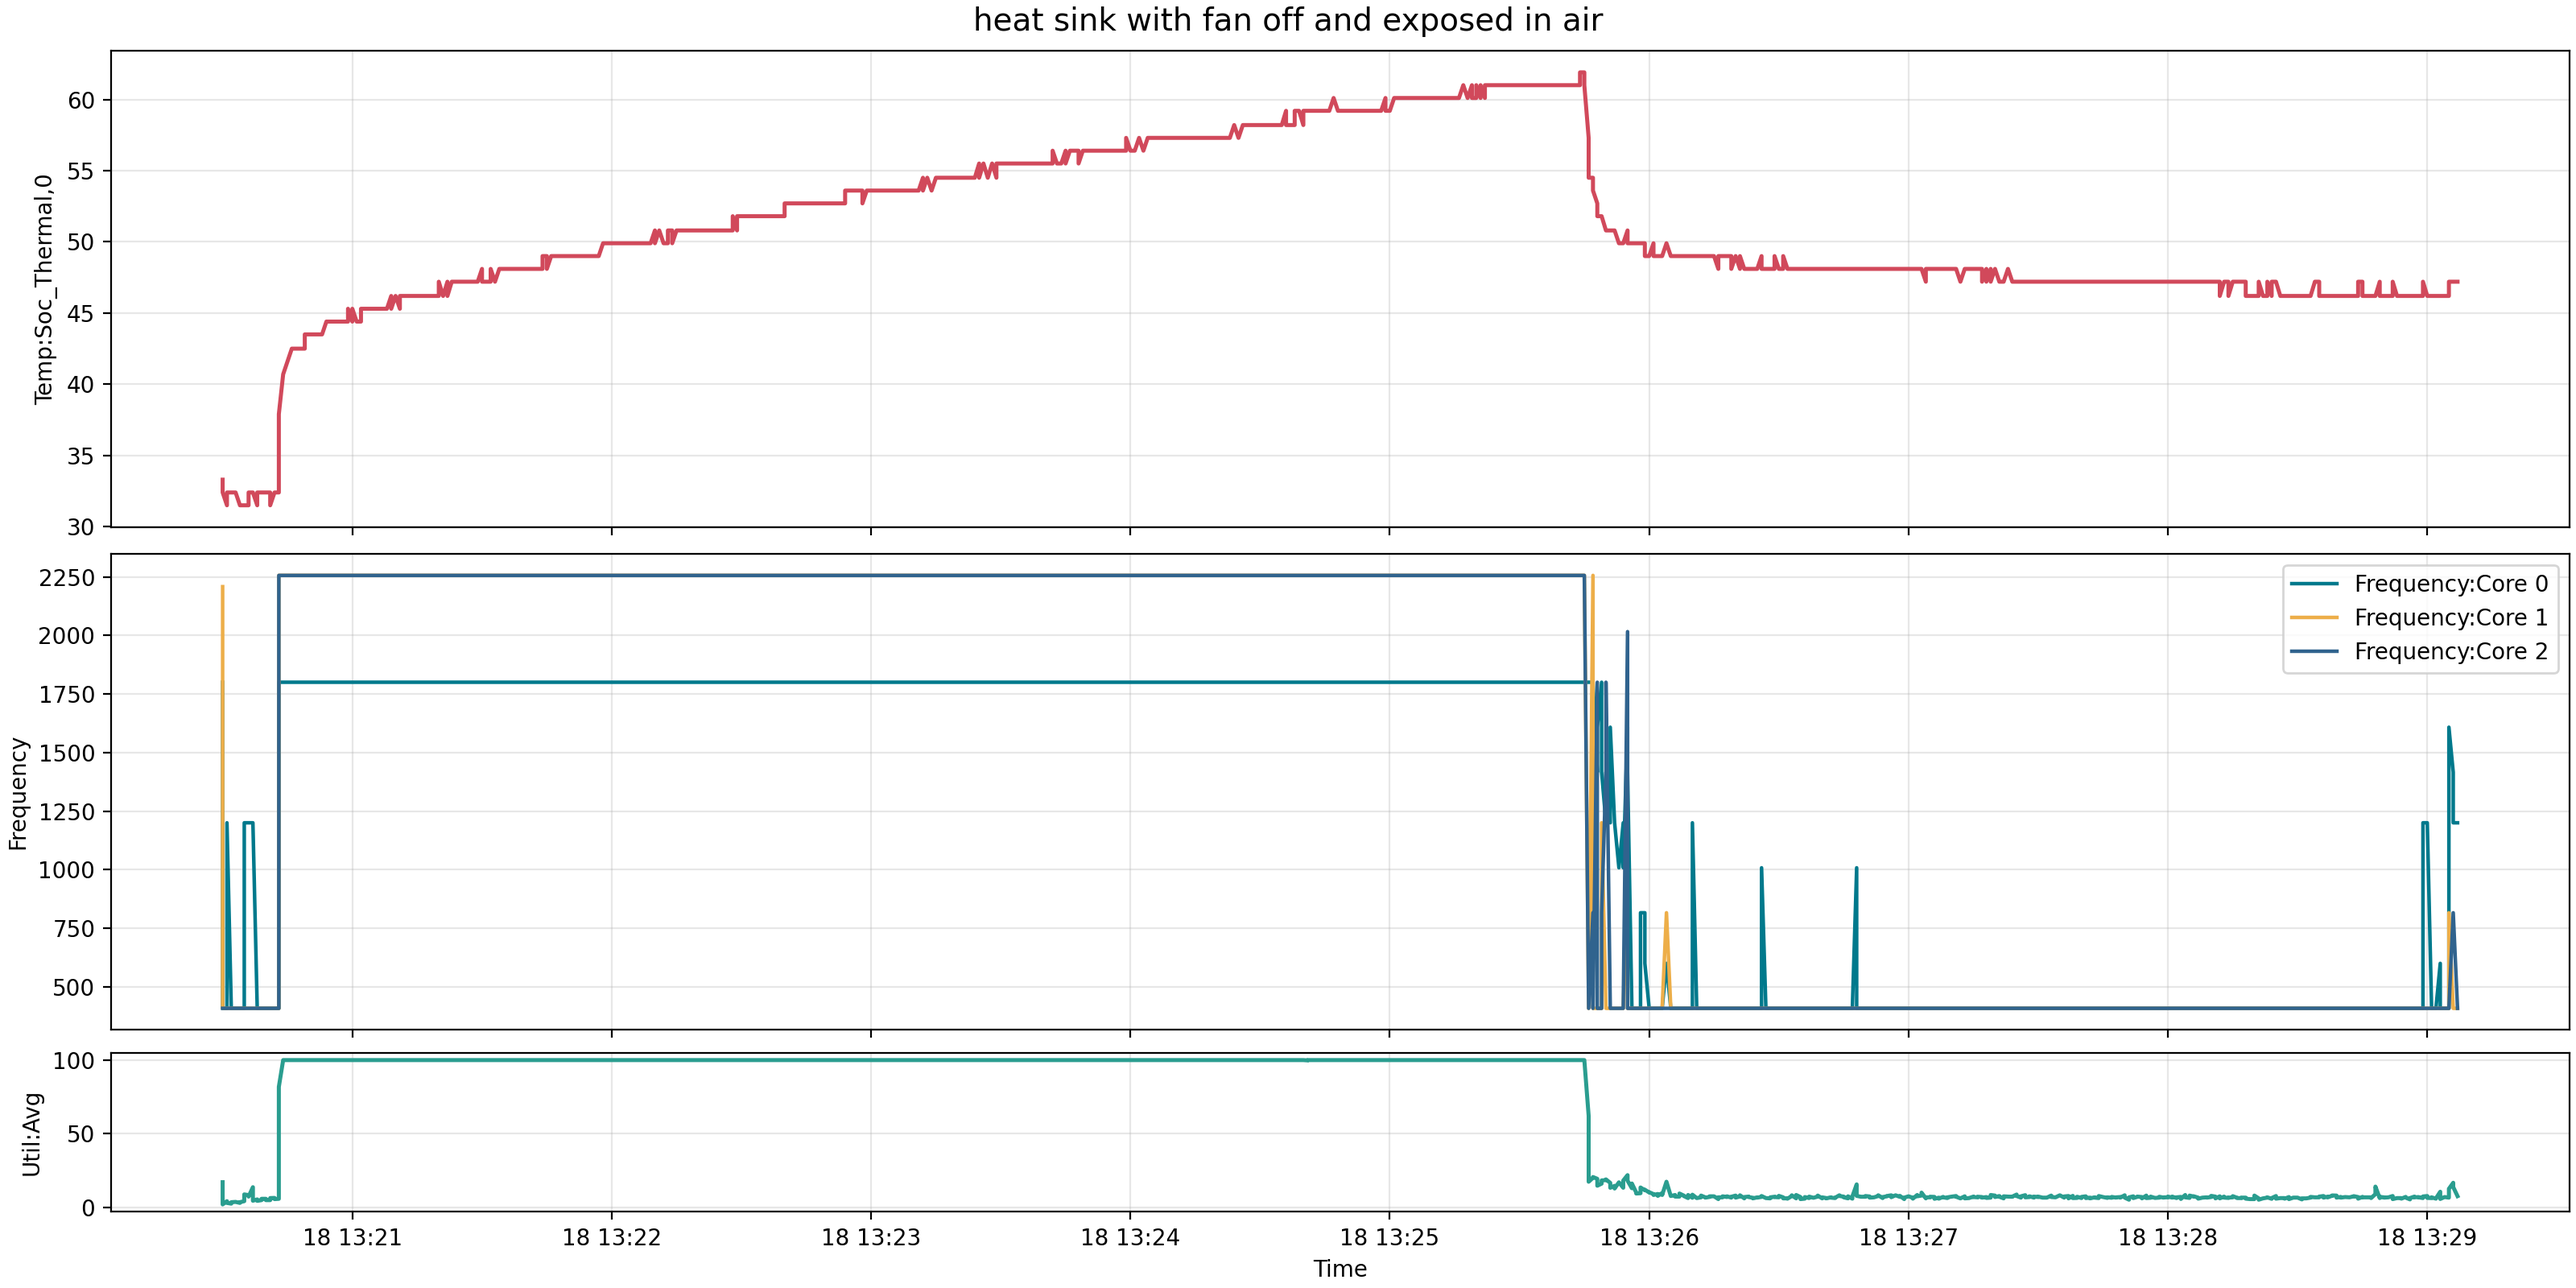
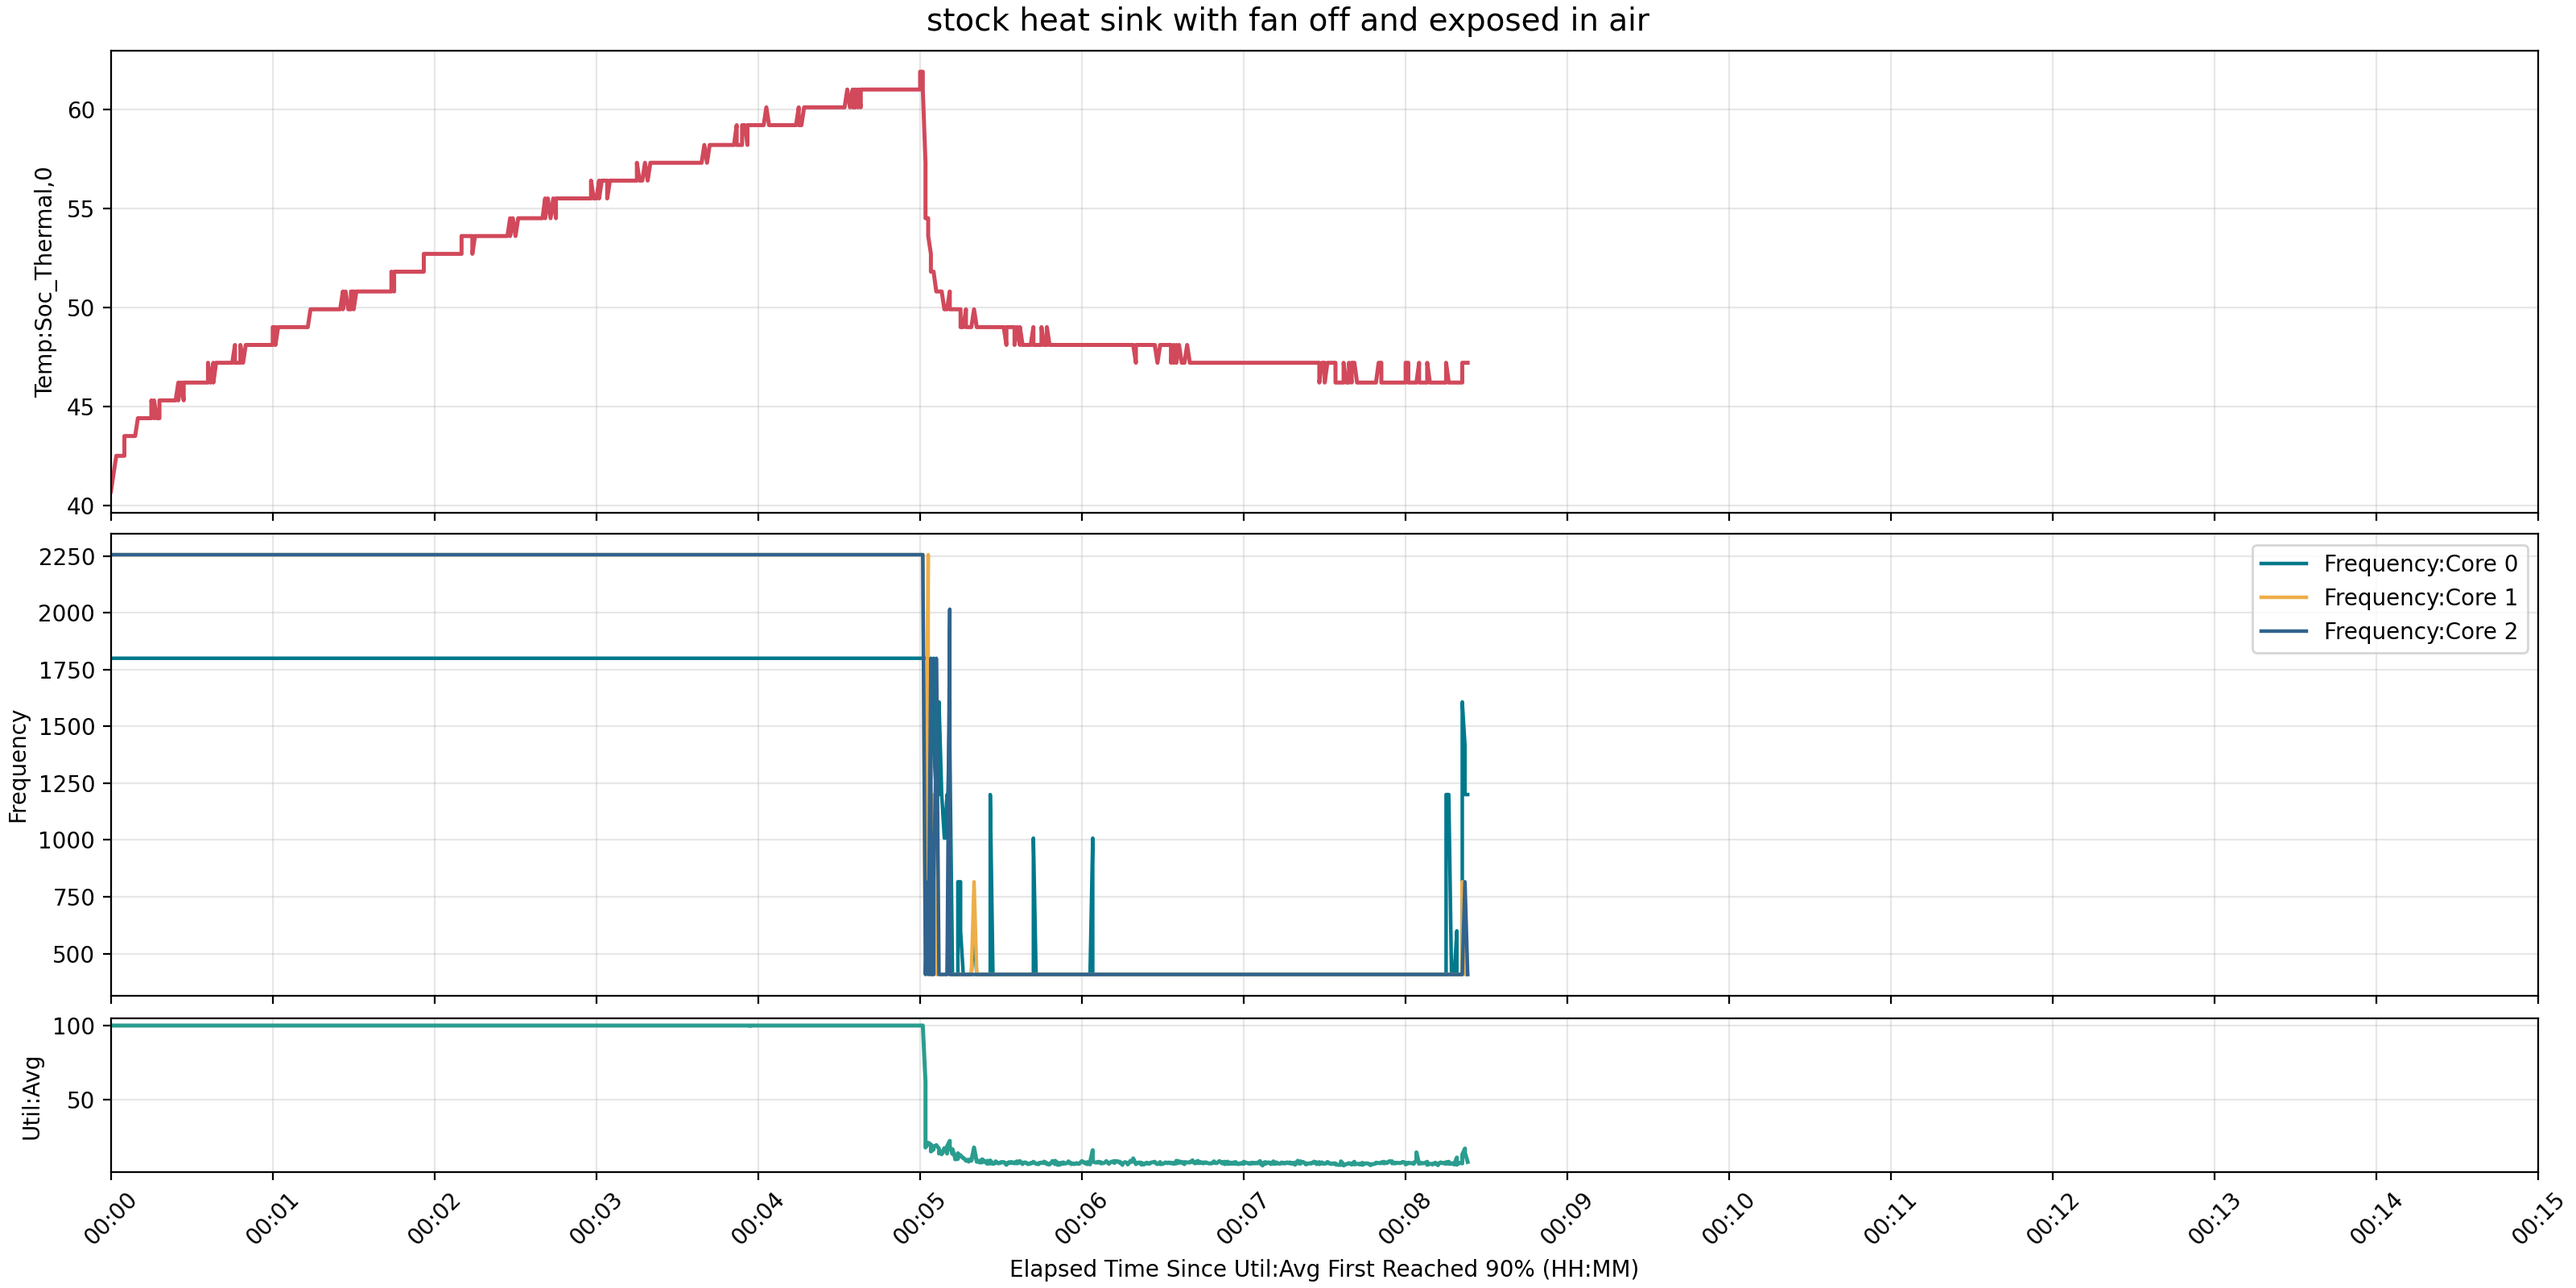
更新测试数据

diff --git a/plot_csv_charts.py b/plot_csv_charts.py
@@ -1,5 +1,6 @@
 from __future__ import annotations
 
+import math
 import os
 from pathlib import Path
 
@@ -13,6 +14,7 @@ import matplotlib
 matplotlib.use("Agg")
 
 import matplotlib.pyplot as plt
+from matplotlib.ticker import FuncFormatter, MultipleLocator
 import pandas as pd
 
 
@@ -23,6 +25,8 @@ UTIL_COLUMN = "Util:Avg"
 PLOT_COLUMNS = [TEMP_COLUMN, *FREQ_COLUMNS, UTIL_COLUMN]
 DESCRIPTION_CSV = "DISCRIPTION.csv"
 SUBPLOT_HEIGHT_RATIOS = [1, 1, 1 / 3]
+SECONDS_PER_MINUTE = 60
+UTIL_START_THRESHOLD = 90.0
 
 
 def load_descriptions(description_csv: Path) -> dict[str, str]:
@@ -64,9 +68,43 @@ def load_csv(csv_path: Path) -> pd.DataFrame:
     return df
 
 
-def plot_csv(csv_path: Path, output_dir: Path, descriptions: dict[str, str]) -> Path:
-    df = load_csv(csv_path)
+def get_plot_start_time(df: pd.DataFrame) -> pd.Timestamp:
+    start_rows = df[df[UTIL_COLUMN] >= UTIL_START_THRESHOLD]
+    if start_rows.empty:
+        return df[TIME_COLUMN].iloc[0]
+    return start_rows[TIME_COLUMN].iloc[0]
+
+
+def trim_df_for_plot(df: pd.DataFrame) -> pd.DataFrame:
+    start_time = get_plot_start_time(df)
+    return df[df[TIME_COLUMN] >= start_time].copy()
+
+
+def get_elapsed_seconds(df: pd.DataFrame) -> pd.Series:
+    return (df[TIME_COLUMN] - df[TIME_COLUMN].iloc[0]).dt.total_seconds()
+
+
+def get_axis_duration_seconds(dataframes: list[pd.DataFrame]) -> float:
+    max_duration_seconds = max(get_elapsed_seconds(df).iloc[-1] for df in dataframes)
+    rounded_minutes = math.ceil(max_duration_seconds / SECONDS_PER_MINUTE)
+    return max(SECONDS_PER_MINUTE, rounded_minutes * SECONDS_PER_MINUTE)
+
+
+def format_elapsed_time(value: float, _: float) -> str:
+    total_minutes = max(0, int(round(value / SECONDS_PER_MINUTE)))
+    hours, minutes = divmod(total_minutes, 60)
+    return f"{hours:02d}:{minutes:02d}"
+
+
+def plot_csv(
+    csv_path: Path,
+    df: pd.DataFrame,
+    output_dir: Path,
+    descriptions: dict[str, str],
+    axis_duration_seconds: float,
+) -> Path:
     title = descriptions.get(csv_path.name) or descriptions.get(str(csv_path.relative_to(PROJECT_ROOT))) or csv_path.stem
+    elapsed_seconds = get_elapsed_seconds(df)
 
     fig, axes = plt.subplots(
         3,
@@ -78,20 +116,26 @@ def plot_csv(csv_path: Path, output_dir: Path, descriptions: dict[str, str]) -> 
     )
     fig.suptitle(title, fontsize=14)
 
-    axes[0].plot(df[TIME_COLUMN], df[TEMP_COLUMN], color="#d1495b", linewidth=1.8)
+    axes[0].plot(elapsed_seconds, df[TEMP_COLUMN], color="#d1495b", linewidth=1.8)
     axes[0].set_ylabel(TEMP_COLUMN)
     axes[0].grid(True, alpha=0.3)
 
     for column, color in zip(FREQ_COLUMNS, ["#00798c", "#edae49", "#30638e"]):
-        axes[1].plot(df[TIME_COLUMN], df[column], label=column, linewidth=1.6, color=color)
+        axes[1].plot(elapsed_seconds, df[column], label=column, linewidth=1.6, color=color)
     axes[1].set_ylabel("Frequency")
     axes[1].legend(loc="upper right")
     axes[1].grid(True, alpha=0.3)
 
-    axes[2].plot(df[TIME_COLUMN], df[UTIL_COLUMN], color="#2a9d8f", linewidth=1.8)
+    axes[2].plot(elapsed_seconds, df[UTIL_COLUMN], color="#2a9d8f", linewidth=1.8)
     axes[2].set_ylabel(UTIL_COLUMN)
-    axes[2].set_xlabel(TIME_COLUMN)
+    axes[2].set_xlabel("Elapsed Time Since Util:Avg First Reached 90% (HH:MM)")
     axes[2].grid(True, alpha=0.3)
+
+    for axis in axes:
+        axis.set_xlim(0, axis_duration_seconds)
+        axis.xaxis.set_major_locator(MultipleLocator(SECONDS_PER_MINUTE))
+        axis.xaxis.set_major_formatter(FuncFormatter(format_elapsed_time))
+    axes[2].tick_params(axis="x", rotation=45)
 
     output_dir.mkdir(parents=True, exist_ok=True)
     output_path = output_dir / f"{csv_path.stem}.png"
@@ -111,8 +155,11 @@ def main() -> int:
     if not csv_files:
         raise FileNotFoundError(f"No CSV files found in {data_dir}")
 
-    for csv_file in csv_files:
-        output_path = plot_csv(csv_file, output_dir, descriptions)
+    loaded_data = [(csv_file, trim_df_for_plot(load_csv(csv_file))) for csv_file in csv_files]
+    axis_duration_seconds = get_axis_duration_seconds([df for _, df in loaded_data])
+
+    for csv_file, df in loaded_data:
+        output_path = plot_csv(csv_file, df, output_dir, descriptions, axis_duration_seconds)
         print(f"Generated {output_path.relative_to(project_root)}")
 
     return 0

diff --git a/README.md b/README.md
@@ -1,17 +1,52 @@
 # CPU Frequency Performance Plotting
 
-本项目用于整理和可视化通过 `s-tui` 采集到的 CPU 监控数据。
+本项目用于整理和可视化通过 `s-tui` 采集到的 Firefly `ROC-RK3588S-PC` 主板 CPU 监控数据。
 
-当前脚本会批量读取 `data/` 目录下的实验 CSV，提取以下指标并生成图表：
+## 测试结果
 
-- 横轴：`Time`
-- 纵轴：`Temp:Soc_Thermal,0`
-- 纵轴：`Frequency:Core 0`
-- 纵轴：`Frequency:Core 1`
-- 纵轴：`Frequency:Core 2`
-- 纵轴：`Util:Avg`
+完整结果汇总见 [RESULT.md](RESULT.md)。
 
-每个实验 CSV 会生成一张 PNG 图片，输出到 `plots/` 目录。
+`RESULT.md` 中包含：
+
+- 每组实验的测试条件
+- 对应的性能/温度图表
+- `img/` 中匹配到的测试条件照片
+
+## 结论
+
+基于当前 7 组实验图表和原始数据，可以得到以下结论：
+
+- Firefly 官方散热器在风扇开启时表现最好。该组实验的 `Temp:Soc_Thermal,0` 平均约为 `47.98°C`，最高约 `49.9°C`，同时 `Frequency:Core 1/2` 平均可维持在约 `2186 MHz`，明显优于其它条件。
+- Firefly 官方散热器在风扇关闭时仍然有明显效果。该组实验平均温度约 `51.31°C`，虽然不如开风扇，但仍显著低于裸板和封闭环境测试。
+- 裸板运行和封闭环境测试的温度最高。两组 `no heat sink` 实验平均温度约为 `74-75°C`，最高接近 `85°C`，而且核心频率下降更明显，说明热限制更早出现。
+- 新增的被动散热片方案中，`aluminium heat sink #2 6.9g` 优于 `aluminium heat sink #1 2.4g` 和 `copper heat sink #1 10.5g`，但整体仍不如 Firefly 官方散热器。三组无风扇散热片实验平均温度约为 `69-73°C`，仍明显高于官方散热器关风扇时的水平。
+- 从当前样本看，散热结构和通风条件对持续频率保持能力影响非常直接。最优方案是 `stock heat sink with fan on and exposed in air`，次优方案是 `stock heat sink with fan off and exposed in air`。
+
+说明：以上结论基于当前绘图规则，即从 `Util:Avg` 第一次达到 `90%` 及以上的时刻开始统计和绘图。
+
+## 测试条件
+
+测试平台为 Firefly `ROC-RK3588S-PC` 主板。
+
+`data/DISCRIPTION.csv` 中各实验条件的含义如下：
+
+- `no heat sink and exposed in air`：主板未安装散热器，裸板暴露在空气中运行
+- `no heat sink and fixed in model`：主板未安装散热器，放置在无人机球壳内部进行封闭测试
+- `stock heat sink with fan on and exposed in air`：主板安装 Firefly 官方散热器，风扇开启，暴露在空气中运行
+- `stock heat sink with fan off and exposed in air`：主板安装 Firefly 官方散热器，风扇关闭，暴露在空气中运行
+- `copper heat sink #1 10.5g with fan off and exposed in air`：使用 `copper heat sink #1`，不加风扇，暴露在空气中运行
+- `aluminium heat sink #1 2.4g with fan off and exposed in air`：使用 `aluminium heat sink #1`，不加风扇，暴露在空气中运行
+- `aluminium heat sink #2 6.9g with fan off and exposed in air`：使用 `aluminium heat sink #2`，不加风扇，暴露在空气中运行
+
+也就是说：
+
+- `no heat sink` 表示裸板运行，不安装 heat sink
+- `fixed in model` 表示主板固定在无人机球壳内部，属于封闭环境测试
+- `stock heat sink` 表示使用 Firefly 官方散热器
+
+如果需要对外同步测试条件，可以使用下面这段描述：
+
+> 测试使用 Firefly ROC-RK3588S-PC 主板进行。`no heat sink` 条件下为裸板运行；`fixed in model` 表示将主板放入无人机球壳内部进行封闭测试；`stock heat sink` 条件下使用 Firefly 官方散热器，其中分别测试了风扇开启和关闭两种情况；另外还测试了 3 组无风扇被动散热片方案，包括 `copper heat sink #1`、`aluminium heat sink #1` 和 `aluminium heat sink #2`。
 
 ## 数据来源
 
@@ -25,7 +60,7 @@
 - `data/s-tui_log_2026-03-18_12_23_39.csv`
 - `data/s-tui_log_2026-03-18_12_32_54.csv`
 
-## s-tui 使用方式
+## 测试方法
 
 ### 安装 s-tui
 
@@ -82,7 +117,20 @@ s-tui --csv --csv-file data/s-tui_log_$(date +%F_%H_%M_%S).csv
 s-tui --no-mouse --csv --csv-file data/s-tui_log_$(date +%F_%H_%M_%S).csv
 ```
 
-## 图表标题说明
+## 图表和脚本使用方式
+
+当前脚本会批量读取 `data/` 目录下的实验 CSV，提取以下指标并生成图表：
+
+- 横轴：从 `Util:Avg` 第一次达到 `90%` 及以上时刻开始的相对时间，按分钟显示标签
+- 纵轴：`Temp:Soc_Thermal,0`
+- 纵轴：`Frequency:Core 0`
+- 纵轴：`Frequency:Core 1`
+- 纵轴：`Frequency:Core 2`
+- 纵轴：`Util:Avg`
+
+每个实验 CSV 会生成一张 PNG 图片，输出到 `plots/` 目录。
+
+### 图表标题说明
 
 图表标题来自 `data/DISCRIPTION.csv`。
 
@@ -101,28 +149,7 @@ data/s-tui_log_2026-03-18_12_23_39.csv, no heat sink and fixed in model
 
 绘图脚本会按文件名匹配描述，并将描述写入图表标题。如果某个实验 CSV 在 `DISCRIPTION.csv` 中没有对应描述，则回退为 CSV 文件名。
 
-## 测试条件说明
-
-本项目中的测试平台为 Firefly `ROC-RK3588S-PC` 主板。
-
-`data/DISCRIPTION.csv` 中各实验条件的含义如下：
-
-- `no heat sink and exposed in air`：主板未安装散热器，裸板暴露在空气中运行
-- `no heat sink and fixed in model`：主板未安装散热器，放置在无人机球壳内部进行封闭测试
-- `heat sink with fan on and exposed in air`：主板安装 Firefly 官方散热器，风扇开启，暴露在空气中运行
-- `heat sink with fan off and exposed in air`：主板安装 Firefly 官方散热器，风扇关闭，暴露在空气中运行
-
-也就是说：
-
-- `no heat sink` 表示裸板运行，不安装 heat sink
-- `fixed in model` 表示主板固定在无人机球壳内部，属于封闭环境测试
-- `heat sink` 表示使用 Firefly 官方散热器
-
-如果需要对外同步测试条件，可以使用下面这段描述：
-
-> 测试使用 Firefly ROC-RK3588S-PC 主板进行。`no heat sink` 条件下为裸板运行；`fixed in model` 表示将主板放入无人机球壳内部进行封闭测试；`heat sink` 条件下使用 Firefly 官方散热器，其中分别测试了风扇开启和关闭两种情况。
-
-## 图表处理方式
+### 图表处理方式
 
 绘图脚本为：
 
@@ -134,19 +161,22 @@ plot_csv_charts.py
 
 1. 批量扫描 `data/*.csv`
 2. 自动跳过 `data/DISCRIPTION.csv`
-3. 读取每个实验 CSV 的 `Time` 列并转换为时间轴
-4. 提取以下 5 个指标：
+3. 读取每个实验 CSV 的 `Time` 列，并找到 `Util:Avg` 第一次达到 `90%` 及以上的时刻作为绘图起点
+4. 若某个实验从未达到 `90%`，则回退为该实验的第一条记录作为起点
+5. 将所有图表的横轴统一到同一长度，长度取所有实验中最长时长并向上取整到整分钟
+6. 横轴按每分钟显示一个标签
+7. 提取以下 5 个指标：
    - `Temp:Soc_Thermal,0`
    - `Frequency:Core 0`
    - `Frequency:Core 1`
    - `Frequency:Core 2`
    - `Util:Avg`
-5. 为每个实验绘制一张图
-6. 图中使用 3 个共享时间轴的子图：
+8. 为每个实验绘制一张图
+9. 图中使用 3 个共享时间轴的子图：
    - 上方：SoC 温度
    - 中间：3 个核心频率
    - 下方：平均利用率
-7. 输出为 `plots/<csv文件名>.png`
+10. 输出为 `plots/<csv文件名>.png`
 
 之所以拆成 3 个子图，而不是把所有指标叠在同一个坐标轴里，是因为温度、频率、利用率量纲不同，分开展示更容易比较趋势。
 
@@ -182,10 +212,26 @@ uv run python plot_csv_charts.py
 - 读取 `data/DISCRIPTION.csv` 中的实验描述
 - 生成对应图表到 `plots/`
 
+## 结果汇总文档生成方式
+
+项目提供了自动生成 `RESULT.md` 的脚本：
+
+```bash
+uv run python generate_result_md.py
+```
+
+执行后会自动：
+
+- 读取 `data/DISCRIPTION.csv` 中的实验条件
+- 将每个实验对应的结果图从 `plots/` 插入到 `RESULT.md`
+- 尝试从 `img/` 中匹配对应测试条件的现场照片
+- 对没有对应照片的实验标记为“暂无对应测试照片”
+
 ## 输出目录
 
 - 原始实验数据：`data/`
 - 图表输出目录：`plots/`
+- 测试结果汇总：`RESULT.md`
 - Matplotlib 本地缓存：`.cache/matplotlib/`
 
 ## 参考
